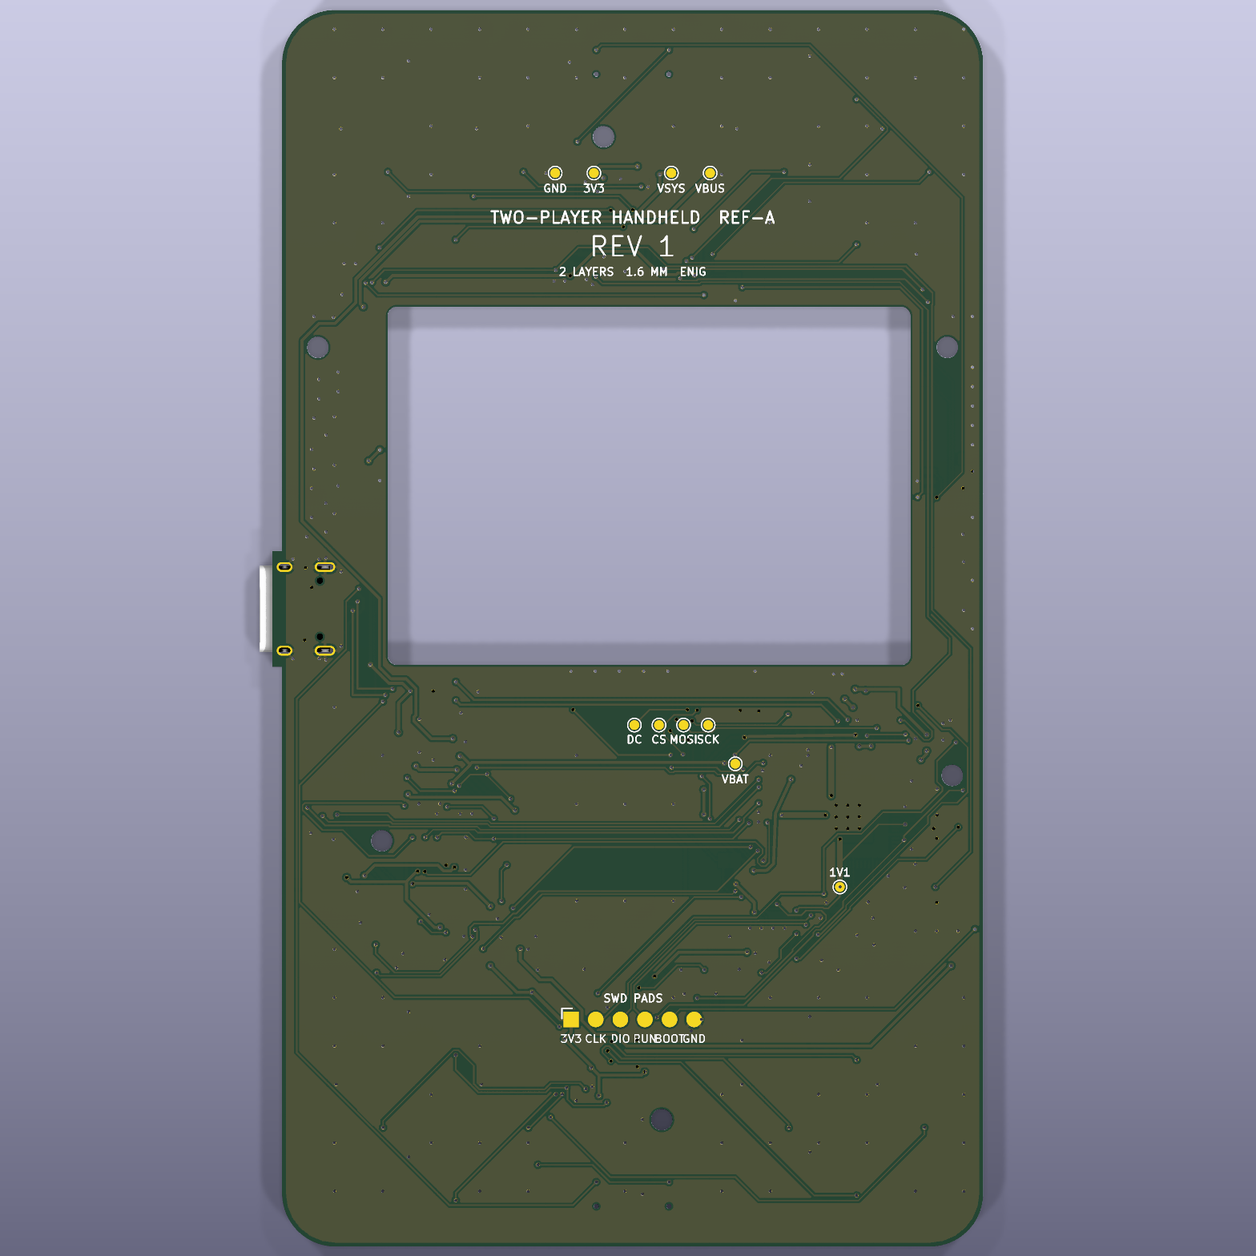
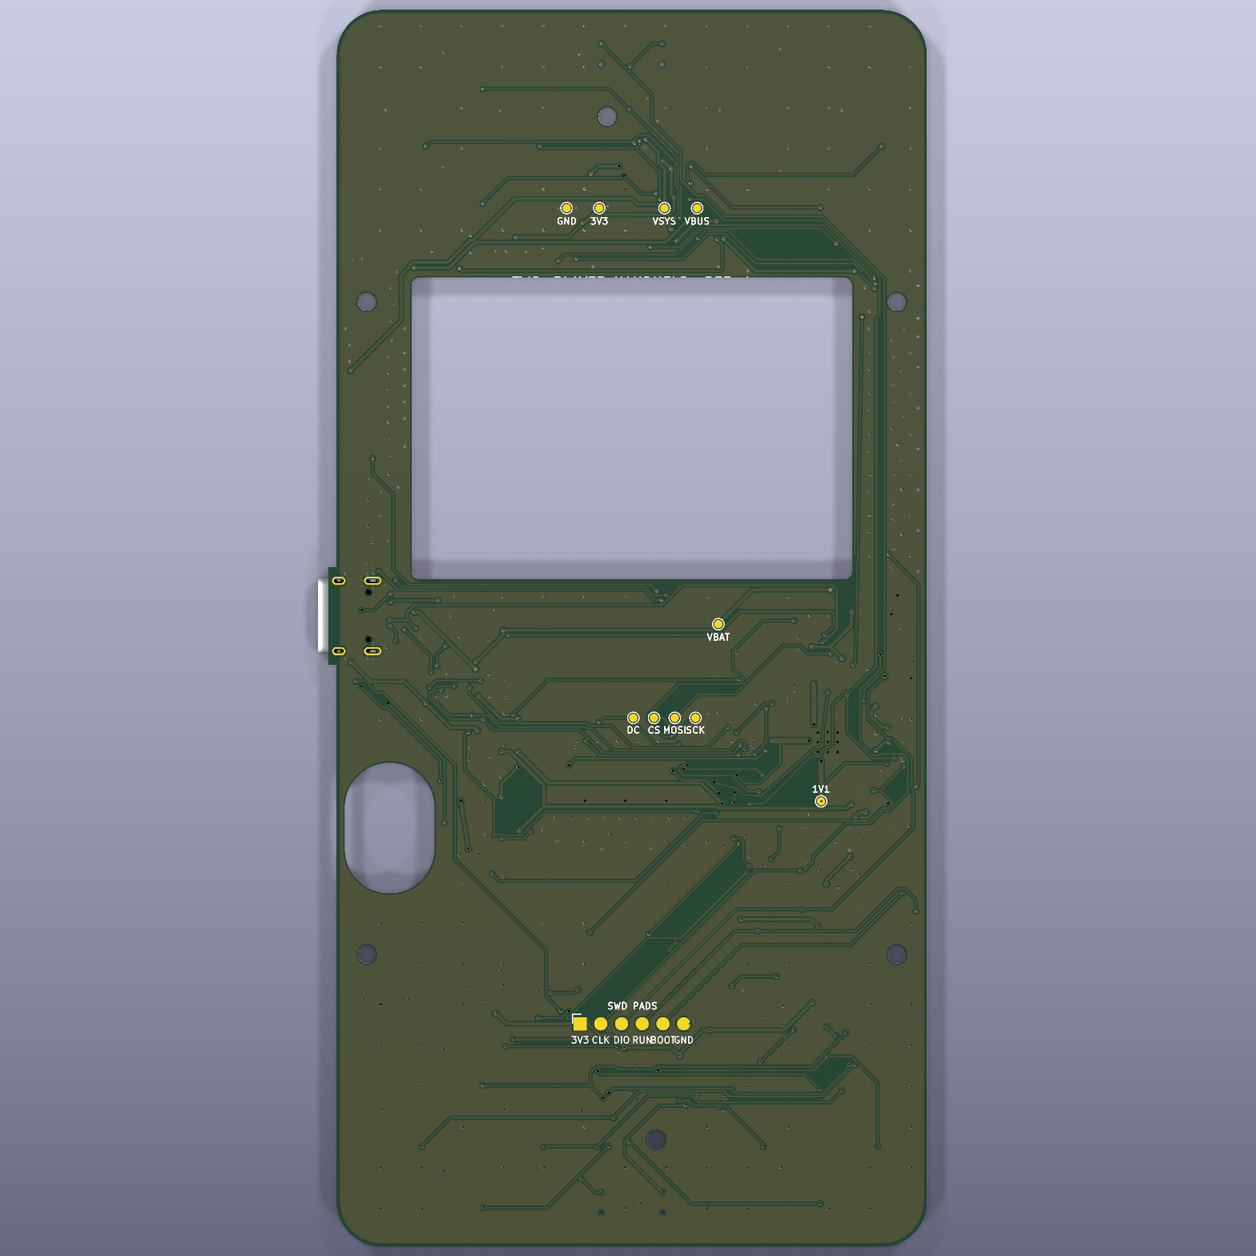
ref_design docs: the 3.5 in panel back in the BOM, README, PLAN, review, sources; pin map and renders regenerated

diff --git a/hardware/ref_design/docs/design_review.md b/hardware/ref_design/docs/design_review.md
@@ -9,11 +9,11 @@ This is the 2-layer build, `main` since 2026-09-24: the first, 4-layer design (t
 
 ## The device
 
-Two players face each other across a 2.4in 240x320 IPS screen; each has a
+Two players face each other across a 3.5in 320x480 IPS screen; each has a
 D-pad and four face buttons under DS Lite silicone at their end. One Li-ion
 cell, one speaker, one USB-C for charging and firmware. No radios.
 
-(2026-10-21: the case is being replaced by the 133 mm shell for the 2.4 in panel, [case/SHELL.md](../case/SHELL.md); this review describes the 156 mm case and the board as it is laid out today, until the board is re-placed.) Case 75.4 x 156.2 mm, 13.4 mm thick at the screen and 11.5 at the ends (14.6 until 2026-10-19, when the panel's top went into a pocket in the lid under a 0.8 mm skin, with a 0.5 mm pad over J2): the cell lies on the tub's floor under the board and the board rests on ribs 4.5 mm over the floor (since 2026-10-09; branch ref-design-cell-on-board has the cell on the board under the screen, 13.9 mm and 7.86 at the ends). Each end steps down 1.9 mm to a button deck (a spine between the clusters stays full height over the end snap hooks; 2.34 until 2026-10-21, when the deck's lip became Alex's DS Lite faceplate's 1.6 mm), so genuine DS Lite caps stand 1.41 mm proud, as on a DS Lite; `case/DSLITE.md` has the cap numbers and their sources. Board 70.4 x 151.2 mm (70.5 x 151.34 over the outline's
+(2026-10-26: the 3.5 in panel is back in a 77.4 x 156.6 x 9.6 mm case, [case/SHELL.md](../case/SHELL.md); the dimensions in this review's older paragraphs are the earlier cases'.) Case 75.4 x 156.2 mm, 13.4 mm thick at the screen and 11.5 at the ends (14.6 until 2026-10-19, when the panel's top went into a pocket in the lid under a 0.8 mm skin, with a 0.5 mm pad over J2): the cell lies on the tub's floor under the board and the board rests on ribs 4.5 mm over the floor (since 2026-10-09; branch ref-design-cell-on-board has the cell on the board under the screen, 13.9 mm and 7.86 at the ends). Each end steps down 1.9 mm to a button deck (a spine between the clusters stays full height over the end snap hooks; 2.34 until 2026-10-21, when the deck's lip became Alex's DS Lite faceplate's 1.6 mm), so genuine DS Lite caps stand 1.41 mm proud, as on a DS Lite; `case/DSLITE.md` has the cap numbers and their sources. Board 70.4 x 151.2 mm (70.5 x 151.34 over the outline's
 line width, the size JLC quotes), 2 layers, 1.6 mm, ENIG,
 every hole 0.3 mm or larger.
 
@@ -142,11 +142,10 @@ every hole 0.3 mm or larger.
 
 ### Display (sheet Display)
 
-- EastRising ER-TFT024IPS-3: 2.4in IPS, 240x320, ST7789V, 4-line serial, 3.3 V,
-  42.72 x 59.46 x 2.30 mm (2026-10-21; it replaced the 3.5in ER-TFT035IPS-6 with the
-  133 mm shell). Sold by the maker: about $12.01 a unit with shipping at 10 units, $7.13
-  at 50 ([bom.md](bom.md)). It has a published datasheet and outline drawing
-  ([datasheet](https://www.buydisplay.com/download/manual/ER-TFT024IPS-3_Datasheet.pdf)).
+- EastRising ER-TFT035IPS-6: 3.5in IPS, 320x480, ILI9488, 4-wire SPI, 3.3 V,
+  54.50 x 83.00 x 2.30 mm (back since 2026-10-26; it was replaced by the 2.4in ER-TFT024IPS-3 from 2026-10-21 to then).
+  Sold by the maker: $14.20 a unit at 10, $9.86 at 50 ([bom.md](bom.md)). Its datasheet
+  ([datasheet](https://www.buydisplay.com/download/manual/ER-TFT035IPS-6_Datasheet.pdf)) was not re-read on 2026-10-26.
 - Its 50-contact FPC (0.5 mm pitch, 0.3 mm thick with its stiffener) leaves the
   panel's seat-1 edge, folds under the panel and plugs into J3, a Hirose FH12-50S
   bottom-contact ZIF connector that JLC places: no hand soldering. J3 sits where the
@@ -182,7 +181,7 @@ every hole 0.3 mm or larger.
   while lit (USB plugged in) briefly overshoots to 133 mA a pin for about 2 us. The
   op-amp's offset (4.5 mV max) sets the accuracy: +-6% at full, +-20% a sink at 29%
   duty, so firmware keeps the dimmest level at about 29%. The loop was simulated at the
-  3.5in panel's 56 mA a sink; the 2.4in panel runs it at 35 mA with R61 the only change.
+  3.5in panel's 56 mA a sink (R61 3.9k again; the 2.4in panel ran it at 35 mA with R61 2.4k).
 
 ### Audio (sheet Audio)
 
@@ -282,7 +281,7 @@ the case for these checks.
 | What | Why | Where it goes |
 |---|---|---|
 | DS Lite silicone piece outline and height, pill spacing; cap keying | the caps are measured from open models (`case/DSLITE.md`), the silicone is still estimated; `dome_h` sets the deck height, so a wrong one leaves the caps high or low; the D-pad pill spacing (14.0 mm here, 13.5 in another project) | `piece_d`, `dome_h`, `dpad_pitch`; the cap numbers in `case/DSLITE.md` |
-| A real ER-TFT024IPS-3 and an FH12-50S | outline and thickness, active area offset; how far the FPC goes into J3 (Hirose's recommended FPC stops 3.5-4 mm in, so expect 2.5-3 mm of slack, not the 1 mm modelled); that its contact 1 meets J3's pin 50 | `panel_*`, `aa_*`, `fpc_*`, `conn_rear`; J3's pin map |
+| A real ER-TFT035IPS-6 and an FH12-50S | outline and thickness, active area offset; how far the FPC goes into J3 (Hirose's recommended FPC stops 3.5-4 mm in, so expect 2.5-3 mm of slack, not the 1 mm modelled); that its contact 1 meets J3's pin 50 | `panel_*`, `aa_*`, `fpc_*`, `conn_rear`; J3's pin map |
 | The chosen cell (403450) | length with its protection board, and connector polarity (PicoBlade has no standard polarity) | `cell`, J2 |
 | The chosen speaker (GSPK151035PN) | its tab's length (spk_tab is estimated), that its plug mates a genuine 53261-0271, that its foam ring seals on the pad, and how loud it is out of the side | `spk_*`, J4 |
 | A printed tub and lid | the snap fit | `snap_*` |

diff --git a/hardware/ref_design/docs/bom.md b/hardware/ref_design/docs/bom.md
@@ -13,8 +13,8 @@ snapshot used for this design (July 2026).
 
 | | 10 boards | Per unit | Source |
 |---|---|---|---|
-| Bare boards: 2 layers, 70.5 x 151.34 mm (as quoted), 1.6 mm, ENIG, every hole >= 0.3 mm | $33.40 | $3.34 | quote (`tools/quotes/`) |
-| Parts: 49 part numbers, 118 placements a board | $47.30 | $4.73 | JLC parts database (`tools/cost.py`, 2026-10-20) |
+| Bare boards: 2 layers, 72.4 x 151.64 mm (72.5 x 151.74 over the outline), 1.6 mm, ENIG, every hole >= 0.3 mm | $33.40 | $3.34 | the quote for 70.5 x 151.34 (`tools/quotes/`): NOT re-quoted for the 3.5 in board, which is 3% more area |
+| Parts: 44 part numbers (14 extended), 118 placements a board | $57.80 | $5.78 | JLC parts database snapshot (`tools/cost.py`, run 2026-10-26 on the 3.5 in board's BOM; the earlier figure was $4.73 for 49 numbers) |
 | Assembly fees, Economic PCBA (below) | $53.35 | $5.34 | JLC's published rates |
 | USB-C through-hole tabs by hand, if JLC charges it | $4.24 | $0.42 | JLC's published rates |
 | Shipping, DHL Express with duties paid at checkout (DDP) | $29.45 | $2.95 | quote; the duty itself isn't known yet |
@@ -46,15 +46,15 @@ pads, locating holes and fiducials. The panel's ZIF connector
 
 | Item | Per unit | For 10 | Must match | Source | Per unit cost |
 |---|---|---|---|---|---|
-| EastRising ER-TFT024IPS-3 2.4in IPS panel | 1 | 12 (2 spares) | the "No Touch" option; ST7789V, 240x320, 42.72 x 59.46 x 2.30 mm, a 50-contact 0.5 mm FPC for a ZIF connector (J3 on the board; a connector bundled with the panel isn't needed) | buydisplay.com (the maker's own): its January-February 2026 price tiers (read from the Wayback Machine) with shipping taken at the 3.5in panel's $45.48 for 12, an upper bound; re-price the cart before ordering | about $12.01 |
+| EastRising ER-TFT035IPS-6 3.5in IPS panel | 1 | 12 (2 spares) | the "No Touch" option; ILI9488, 320x480, 54.50 x 83.00 x 2.30 mm, a 50-contact 0.5 mm FPC for a ZIF connector (J3 on the board; a connector bundled with the panel isn't needed) | AliExpress, buydisplay.com Store (the maker's own): $11.24 each, 5% off at 10 or more, $13.89 shipping for 12, so 12 for $142.03. The maker's own site: $9.10 each but $45.48 shipping, 12 for $154.68 | $14.20 |
 | Li-ion cell 403450, about 700 mAh | 1 | 12 (spares) | 4 x 34 x 50 mm (with its protection board), protection board, Molex PicoBlade (MX1.25, often listed as "JST 1.25") plug with red to J2's `+`: order the cells with that plug; a UN38.3 test summary to ship units to customers | AliExpress, MYWAY Digital Store: 10 for $19.33 + $1.95 shipping | about $2.13 |
 | Speaker: INGHAi GSPK151035PN (LCSC C530539), 15 x 10 x 3.5 mm, 8 ohm, 0.5 W, 90 dB | 1 | 10 | its 35 mm leads with the 1.25 mm 2-pin plug (it plugs into J4, a PicoBlade header) | LCSC | about $0.42 |
 | DS Lite silicone pads (NDSL): D-pad and ABXY pieces | 2 sets | 20 sets | "For NDSL"; the Start/Select strip isn't used | AliExpress, HM Trading Store: 20 sets $2.45 + $5.84 shipping | $0.83 |
 | DS Lite button sets: cross and A/B/X/Y | 2 sets | 20 sets | DS Lite; the L/R and other pieces are spares | AliExpress, China Game Store: $0.88 a set + $12.23 shipping | $2.98 |
 | Screws: M2 x 6 self-tapping, wafer head (4 mm, about 1 mm thick), for plastic | 6 | 60 (spares) | | marketplace | estimate about $0.10 |
 | Thin double-sided tape for the panel, adhesive foam pad for the cell | | 1 roll, 1 sheet | | marketplace | estimate about $0.50 |
-| Case: tub and top, printed at home | 1 | 10 | PLA, 30 cm3 (about 47 g with the purge), and about 7 g of Bambu Support For PLA for the top's supports (a second filament) | PLA at $20-30 a kg, the support filament at about $40 a kg | about $1.20-1.70 |
-| **Total** | | | | | **about $20.3-21.2** |
+| Case: tub and top, printed at home | 1 | 10 | PLA, 32 cm3 (about 50 g with the purge), and about 7 g of Bambu Support For PLA for the top's supports (a second filament) | PLA at $20-30 a kg, the support filament at about $40 a kg | about $1.20-1.70 |
+| **Total** | | | | | **about $22.5-23.5** |
 
 Gone from the 4-layer build's list: the cover lens, the six screws, the light pipes
 and the printed power-button cap.
@@ -63,13 +63,16 @@ Hand work per unit: [assembly.md](assembly.md).
 
 ## Per unit, into your hands
 
-About **$37-38** at 10 units: the factory's $16.47 and your $20.3-21.2. Not in it: import
+About **$39-40** at 10 units: the factory's $16.47 and your $22.5-23.5. Not in it: import
 duties (at the 25% rate an earlier review suggested, unverified, about $3 a unit
 on the board order)
 and JLC's new-account coupons ($30 and $20 on the quote page, up to $5 a unit off if
 they apply). The spread is the tape and filament, the last estimates.
 
 The panel is the largest single item. At 50 panels the maker's own site is the
-cheapest source: about $7.13 a panel with shipping (its 2026 price tiers and the 3.5in
-panel's shipping quote of 2026-09-24, $62.60 for 50, duties not included; the 3.5in
-ER-TFT035IPS-6 it replaced was $9.86).
+cheapest source: $493.10 with shipping, $9.86 a panel (quotes from both shops'
+carts, 2026-09-24, shipping to the US by their standard methods, duties not
+included). The 2.4in ER-TFT024IPS-3 (2026-10-21 to 2026-10-26) would have been about $12.01 at 10 and
+$7.13 at 50, but a case that is 23.5 mm shorter; the 3.5in panel is back (Alex, 2026-10-26) with the case rebuilt round it. Its active area (48.96 x 73.44),
+its FPC's folded shape and its 2.35 +-0.1 thickness are the old design's numbers, not re-read from the datasheet (the maker's site was behind
+Cloudflare and the Wayback copy was down on 2026-10-26).

diff --git a/hardware/ref_design/PLAN.md b/hardware/ref_design/PLAN.md
@@ -15,9 +15,9 @@ The 2-layer build applies the cost changes Alex approved on 2026-09-24 and has b
 
 | Area | Choice | Why |
 |---|---|---|
-| Panel | EastRising ER-TFT024IPS-3, ST7789V, 240x320 IPS, 42.72 x 59.46 x 2.3 mm (2026-10-21; the 3.5 in ER-TFT035IPS-6, ILI9488, 54.50 x 83.00, until then) | the case is a DS Lite's length (132.7 mm, was 156.2) with the width the buttons set; same maker, same 50-pin FPC into J3: the pin map changed (K3/K4 on pins 4-5, IM3-0 on 6-9 strapped 1110, D/CX and SCL swapped on 36/37) and R61 went to 2.4k for 70 mA |
+| Panel | EastRising ER-TFT035IPS-6, ILI9488, 320x480 IPS, 54.50 x 83.00 x 2.3 mm (2.45 in the case, the drawing's 2.35 +-0.1); back since 2026-10-26 (the 2.4 in ER-TFT024IPS-3 from 2026-10-21 to then) | cost, minimal bezel and height at the size Alex wants; same maker, same 50-pin FPC into J3 and the 3.5 in pin map of the first design (K3/K4 and IM3 not connected, IM0-2 high, SCL on 36, D/CX on 37), R61 3.9k for 56 mA a sink. Its active area, outline and FPC are the old design's numbers, not re-read from the datasheet |
 | Panel FPC | 50 contacts, 0.5 mm pitch, in a Hirose FH12-50S bottom-contact ZIF (J3), assembled by JLC | no hand soldering per unit; a cracked panel swaps in a minute |
-| Backlight | 4 LEDs in parallel on four cathode pins, anode on VSYS; a linear current sink per pair of cathode pins (MCP6002 + AO3400A + 2.2 ohm), 35 mA each, set by one GPIO's filtered PWM | constant current down to the 3.5 V cutoff, DC in the LEDs, all Basic/Preferred parts; replaced the AP3156 charge pump, out of stock on 2026-10-07 (stability simulated: board/sim/backlight.py) |
+| Backlight | 6 LEDs in parallel on two cathode pins, anode on VSYS; a linear current sink per pin (MCP6002 + AO3400A + 2.2 ohm), set by one GPIO's filtered PWM | constant current down to the 3.5 V cutoff, DC in the LEDs, all Basic/Preferred parts; replaced the AP3156 charge pump, out of stock on 2026-10-07 (stability simulated: board/sim/backlight.py) |
 | MCU core | RP2354B (2 MB flash inside) + ABM8-272-T3 + AOTA 3.3 uH, in the left bezel since 2026-10-21 (the cell's hole took the middle) | Raspberry Pi RP2350B minimal design (MIT, 2 layers like this board), copied as drawn; no flash chip to route; its side decouplers placed by hand beside it |
 | Charger | BQ24073 power path (2026-10-21, row 16): OVP 6.6 V, OUT 4.4 V into VSYS, 475 mA input limit, 270 mA charge, 5 h timer, TS on a B3950 NTC (TH1) at the cell hole's right edge (3.5-47 C) | replaced the TP4056 and its load sharing (hot-plug rings into VSYS, no timer, termination lost under load); about +$0.80 a unit at 10 |
 | Cell | 403450, about 700 mAh, in a 54.0 x 37.0 mm hole in the board (2026-10-21, row 19): across the board between seat 2's deck and J3's range, 0.5 mm round a worst-case 52 x 36 cell plus 1 mm at its left end for its leads to J2 (PicoBlade, 3.4 mm) at the hole's seat-1 corner; its top at most 1.6 mm over the board, its bottom in a 0.6 mm pocket in the tub's floor (case/CELLCUT_FOR_CASE.md; the case took it 2026-10-22) | 9.55 mm at the screen and 7.7 at the ends (the floor pocketed under the cell), against 13.35 and 11.5 (Alex, 2026-10-21) |
@@ -275,7 +275,7 @@ Buttons (from Alex's pad measurements, 2026-10-20; check_buttons fails on these 
 Alex's notes on the print from the kit before f3d5863 (2026-10-21), the ones for the case; the
 shell's redesign (a shorter case for a 2.4 in panel, the top curving over the tub, decks built
 upside down) is done (case/SHELL.md) and takes the answers of the `6_tests` plate:
-- [ ] 5 Openings: confirm the 0.65 D-pad opening and the 8.0 A/B/X/Y holes with real caps
+- [ ] 5 Openings: confirm the 0.60 D-pad opening (0.65 until 2026-10-26) and the 8.0 A/B/X/Y holes with real caps
       (`tune_openings`, on `6_tests`). Best guess committed 2026-10-21: `cap_hole_d` 8.0 and
       `dpad_gap` 0.65 kept, marked GUESS in case.scad and in case/SHELL.md ("Best guesses until
       `6_tests`"); `6_tests` confirms or moves them
@@ -348,7 +348,7 @@ Housekeeping:
   Start/Select pad (outline, dome spacing, wells); the D-pad collar's base width; whether each dome's
   top has a recess for the cap's stem; the gap under the nub; the caps' flange thickness; and the
   DS Lite shell's clover (10.45 across one opening, wall 1.8 thick?)
-- An ER-TFT024IPS-3 against its drawing: outline, where its folded FPC's tip lands (the case keeps 22.5 to 25 mm in from the seat-1 edge clear), that it reaches J3 with a little slack, and which end contact 1 lands on
+- An ER-TFT035IPS-6 against its drawing (the old design's numbers, not re-read on 2026-10-26): outline, active area, its FPC's folded shape (the case keeps 24.9 to 27.3 mm in from the seat-1 edge clear, and lets parts up to 1.05 mm lie under the FPC's body), where its folded FPC's tip lands, that it reaches J3 with a little slack, and which end contact 1 lands on
 - A printed top piece, decks and tub: a deck dropping onto its wedges, the seam's fit, the grip
   ribs' hold (`grip_reach`) and the corner posts' push
 - The 403450 cell: length with its protection board, plug polarity

diff --git a/hardware/ref_design/docs/pinmap.md b/hardware/ref_design/docs/pinmap.md
@@ -35,7 +35,7 @@ the 60-pin RP2350A on a Pico 2). Buttons read low when pressed; enable the inter
 | 25 | (spare) | not connected |
 | 26 | (spare) | not connected |
 | 27 | (spare) | not connected |
-| 28 | `BL_PWM` | PWM6 A: backlight brightness, duty x 70 mA (filtered to a DC reference, see below); low = off |
+| 28 | `BL_PWM` | PWM6 A: backlight brightness, duty x 113 mA (filtered to a DC reference, see below); low = off |
 | 29 | `SR_CLK_MCU` | output: the 74HC165s' clock (SR_CLK) through R65 (33 ohm, at the MCU end); each rising edge shifts one button |
 | 30 | `SR_DATA` | input: U8's Q7, the end of the chain: 16 buttons, low = pressed (see Buttons) |
 | 31 | `AUDIO_PWM` | PWM7 B, 8 bits (586 kHz): audio through two RC stages (-3 dB at about 14 kHz) into U7 (see Audio) |
@@ -103,14 +103,14 @@ pull-down both off. The board revision is on the silkscreen only (no strap pins 
 ## Backlight (current sinks on BL_PWM)
 
 GPIO28 runs PWM6 A, for example 12 bits at 36.6 kHz (150 MHz / 4096). R60/R61/C50 filter
-it into BL_REF (0.077 V at 100%, time constant 2.3 ms), and each sink (two cathode pins,
-two LEDs) holds its 2.2 ohm sense resistor at BL_REF: 35 mA a sink at 100% duty, 70 mA
-for the four LEDs (the panel's typical; its maximum is 80 mA). The LED
-current is DC, so the PWM frequency only sets the ripple (0.5% at 36.6 kHz). Current is
-proportional to duty; apply a gamma curve in firmware. Keep the lowest level at about 29%
-duty (5 mA per LED): below it the op-amp's offset (up to 4.5 mV against 22 mV) can make
+it into BL_REF (0.124 V at 100%, time constant 3.75 ms), and each cathode pin's sink holds
+its 2.2 ohm sense resistor at BL_REF: 56 mA a pin at 100% duty, 113 mA for the six LEDs
+(the panel's maximum is 120 mA; its typical rating, 15 mA per LED, is 80% duty). The LED
+current is DC, so the PWM frequency only sets the ripple (0.3% at 36.6 kHz). Current is
+proportional to duty; apply a gamma curve in firmware. Keep the lowest level at about 18%
+duty (3.4 mA per LED): below it the op-amp's offset (up to 4.5 mV against 22 mV) can make
 the two halves of the backlight visibly unequal. A brightness change settles in about
-10 ms (the filter); from off, the sinks start within about 1 ms and then follow BL_REF.
+15 ms (the filter); from off, the sinks start within about 1 ms and then follow BL_REF.
 GPIO28 resets low (pull-down), R61 holds BL_REF at 0 and the sinks run from 3V3, so the
 backlight is off until firmware starts the PWM and whenever 3V3 is off. Off = duty 0.
 Simulated with ngspice before layout: board/sim/backlight.py (results in

diff --git a/hardware/README.md b/hardware/README.md
@@ -4,7 +4,7 @@ The boards and cases for the two-player handheld, newest first.
 
 | Folder | What it is | Whose | Status |
 |---|---|---|---|
-| [`ref_design/`](./ref_design/README.md) | The reference design (REF-A): RP2354B, 2.4in IPS panel, DS Lite buttons (D-pad, A/B/X/Y, Start, Select per seat), one Li-ion cell; the schematic, routed 2-layer board, JLCPCB fab files, printable case, fit kit and docs, all generated from `board/design.py`, `board/placement.py` and `case/case.scad` | Claude, built alongside Alex's own board | Designed and checked, not yet ordered; parts marked ESTIMATE need a real sample first ([PLAN.md](./ref_design/PLAN.md)) |
+| [`ref_design/`](./ref_design/README.md) | The reference design (REF-A): RP2354B, 3.5in IPS panel, DS Lite buttons (D-pad, A/B/X/Y, Start, Select per seat), one Li-ion cell; the schematic, routed 2-layer board, JLCPCB fab files, printable case, fit kit and docs, all generated from `board/design.py`, `board/placement.py` and `case/case.scad` | Claude, built alongside Alex's own board | Designed and checked, not yet ordered; parts marked ESTIMATE need a real sample first ([PLAN.md](./ref_design/PLAN.md)) |
 | [`prod_board/`](./prod_board/), [`prod_case/`](./prod_case/README.md) | Alex's own production board and case, made by hand in KiCad and OpenSCAD to learn the tools | Alex | In progress |
 | [`membrane/`](./membrane/README.md) | DS Lite membrane contact footprints and the generator for them, shared by both boards | shared | In use |
 | [`ds_lite/`](./ds_lite/README.md) | Research on how the Nintendo DS Lite is built and what makes its bottom half look and feel like one: a dossier, its sourced notes, and recommendations for the case | Claude | Research; the owner's caliper and scale checks still to fold in |

diff --git a/hardware/ref_design/datasheets/SOURCES.md b/hardware/ref_design/datasheets/SOURCES.md
@@ -5,9 +5,9 @@ the design; the file names below are what the notes and tools refer to.
 
 | File | Part | Source |
 |---|---|---|
-| `er-tft024ips-3.pdf` | EastRising ER-TFT024IPS-3 2.4in IPS panel (fitted): drawing, FPC pinout, backlight, interface settings | https://www.buydisplay.com/download/manual/ER-TFT024IPS-3_Datasheet.pdf |
+| `er-tft024ips-3.pdf` | EastRising ER-TFT024IPS-3 2.4in IPS panel (fitted 2026-10-21 to 2026-10-26): drawing, FPC pinout, backlight, interface settings | https://www.buydisplay.com/download/manual/ER-TFT024IPS-3_Datasheet.pdf |
 | `st7789v.pdf` | Sitronix ST7789V controller: commands, serial timing | https://www.newhavendisplay.com/appnotes/datasheets/LCDs/ST7789V.pdf |
-| `er-tft035ips-6.pdf` | EastRising ER-TFT035IPS-6 3.5in IPS panel (the earlier panel, until 2026-10-21) | https://www.buydisplay.com/download/manual/ER-TFT035IPS-6_Datasheet.pdf |
+| `er-tft035ips-6.pdf` | EastRising ER-TFT035IPS-6 3.5in IPS panel (fitted again since 2026-10-26: its drawing was not re-read, the maker's site was behind Cloudflare and the Wayback copy was down; the old design's numbers stand) | https://www.buydisplay.com/download/manual/ER-TFT035IPS-6_Datasheet.pdf |
 | `rp2350.pdf` | RP2350 datasheet (the RP2354B is the RP2350B with 2 MB of flash inside) | https://datasheets.raspberrypi.com/rp2350/rp2350-datasheet.pdf |
 | (zip) | RP2350B minimal KiCad design, RP-010329-CA | https://pip.raspberrypi.com/documents/RP-010329-CA |
 | `tp4056.pdf` | TP4056 Li-ion charger | https://www.lcsc.com/datasheet/lcsc_datasheet_2410121619_TOPPOWER-Nanjing-Extension-Microelectronics-TP4056-42-ESOP8_C16581.pdf |

diff --git a/hardware/ref_design/README.md b/hardware/ref_design/README.md
@@ -20,10 +20,8 @@ which this folder never touches.
 ## What it is
 
 - RP2354B (2 MB flash inside), USB-C (charging + firmware + debug console)
-- 2.4in 240x320 IPS panel (EastRising ER-TFT024IPS-3, ST7789V, SPI; the 3.5in ER-TFT035IPS-6
-  until 2026-10-21) with a published
-  datasheet, its FPC in a 50-pin ZIF connector (no soldering); a
-  constant-current backlight sink per LED group
+- 3.5in 320x480 IPS panel (EastRising ER-TFT035IPS-6, ILI9488, SPI; the 2.4in ER-TFT024IPS-3 from 2026-10-21 to 2026-10-26), its FPC in a 50-pin ZIF connector (no soldering; its datasheet was not re-read when the panel came back); a
+  constant-current backlight sink per LED cathode pin
 - 20 membrane contacts (bare gold combs) under DS Lite silicone: a D-pad, four face buttons,
   Start and Select at each end
 - PWM audio through an RC filter into an FM8002A amplifier and a 15 x 10 mm speaker that plugs in,

diff --git a/hardware/ref_design/docs/assembly.md b/hardware/ref_design/docs/assembly.md
@@ -28,7 +28,7 @@ assembled.
 ## 2. Order and make the rest
 
 The list, with the listings found so far: [bom.md](bom.md), "You". In short: the
-ER-TFT024IPS-3 panel (buydisplay.com), a 403450 cell with a Molex PicoBlade (MX1.25) plug, INGHAi's GSPK151035PN speaker (its
+ER-TFT035IPS-6 panel (buydisplay.com), a 403450 cell with a Molex PicoBlade (MX1.25) plug, INGHAi's GSPK151035PN speaker (its
 leads end in a 1.25 mm plug), two sets each of DS
 Lite silicone and caps, tape and foam, and the printed case (`case/tub.stl` and `case/top.stl`, the one-piece top).
 
